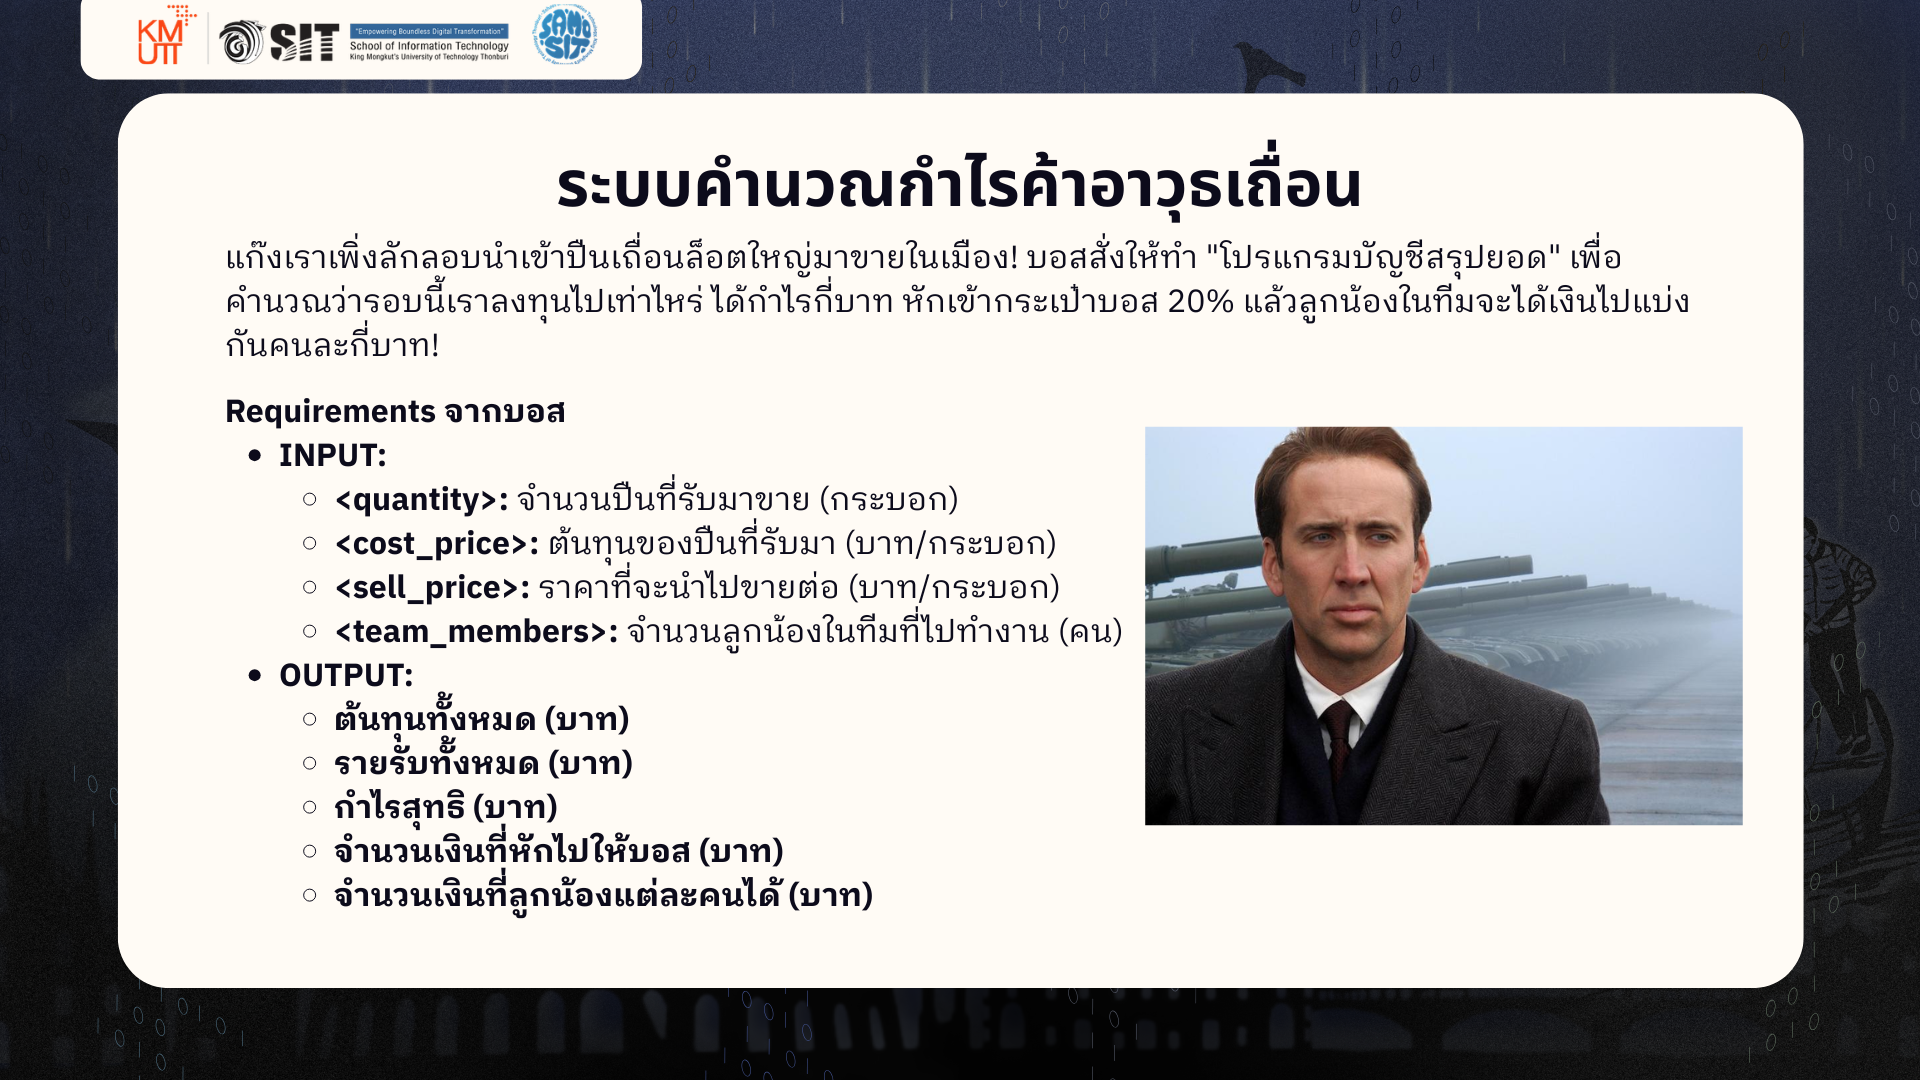
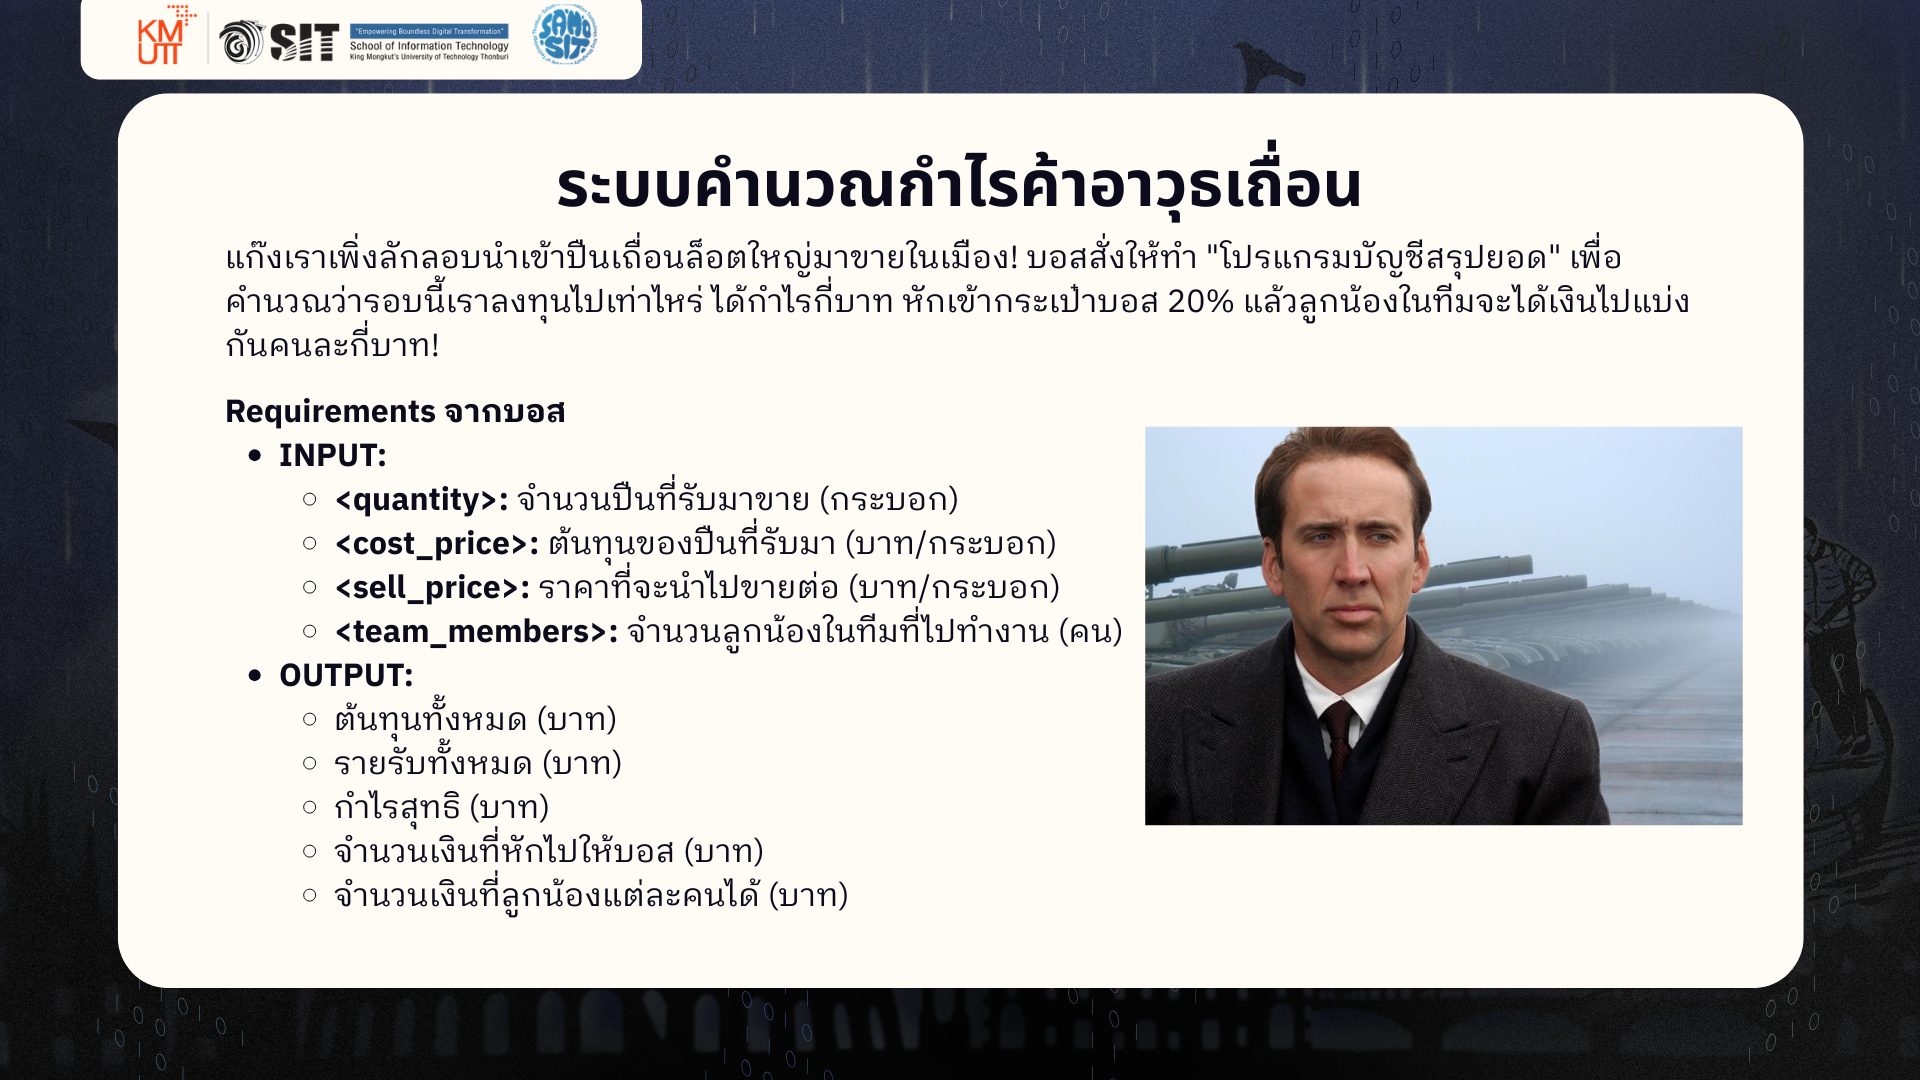
fix: add task names to the title

Changed region(s): [[0.1562, 0.6417, 0.4688, 0.8556]]

diff --git a/README.md b/README.md
@@ -11,9 +11,9 @@
 
 ---
 
-## Workshop Task A
+## Workshop Task A: ระบบคำนวณกำไรค้าอาวุธเถื่อน
 
-![Task detail for Workshop 2A](./2a.png)
+![Task details for Workshop 2A](./2a.png)
 > แก๊งเราเพิ่งลักลอบนำเข้าปืนเถื่อนล็อตใหญ่มาขายในเมือง! บอสสั่งให้ทำ "โปรแกรมบัญชีสรุปยอด" เพื่อคำนวณว่ารอบนี้เราลงทุนไปเท่าไหร่ ได้กำไรกี่บาท หักเข้ากระเป๋าบอส 20% แล้วลูกน้องในทีมจะได้เงินไปแบ่งกันคนละกี่บาท!
 
 ### Requirements จากบอส
@@ -32,7 +32,7 @@
 
 ---
 
-## Workshop Task B
+## Workshop Task B: ปฏิบัติการคัดคนเข้าแก๊ง
 
 ![Task detail for Workshop 2B](./2b.png)
 > บอสใหญ่ของเราต้องการขยายอำนาจ! หน้าที่ของน้อง ๆ คือสร้างโปรแกรม "ระบบคัดกรองลูกน้อง" เพื่อประเมินค่าพลังและจัดสรรตำแหน่ง หรือเตะโด่งพวกไร้ประโยชน์ทิ้งไป!